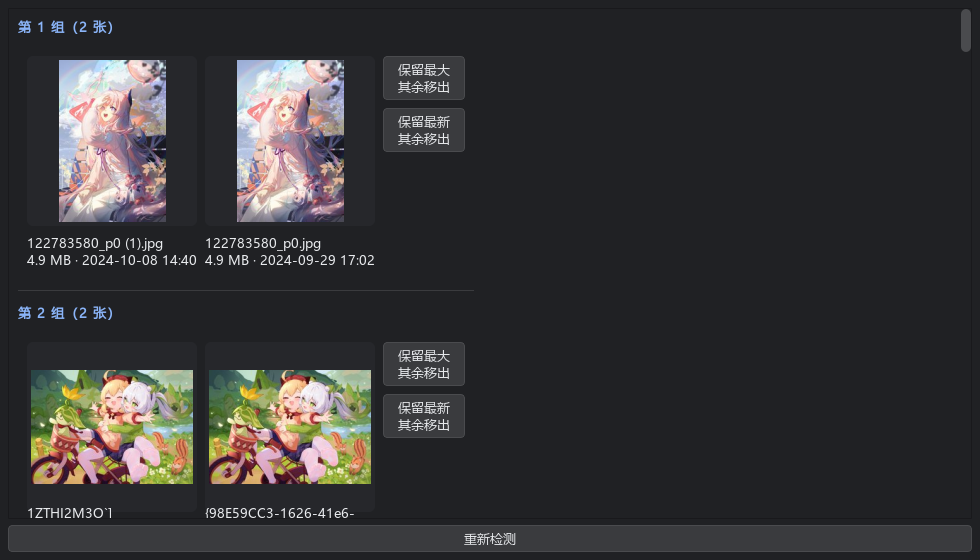
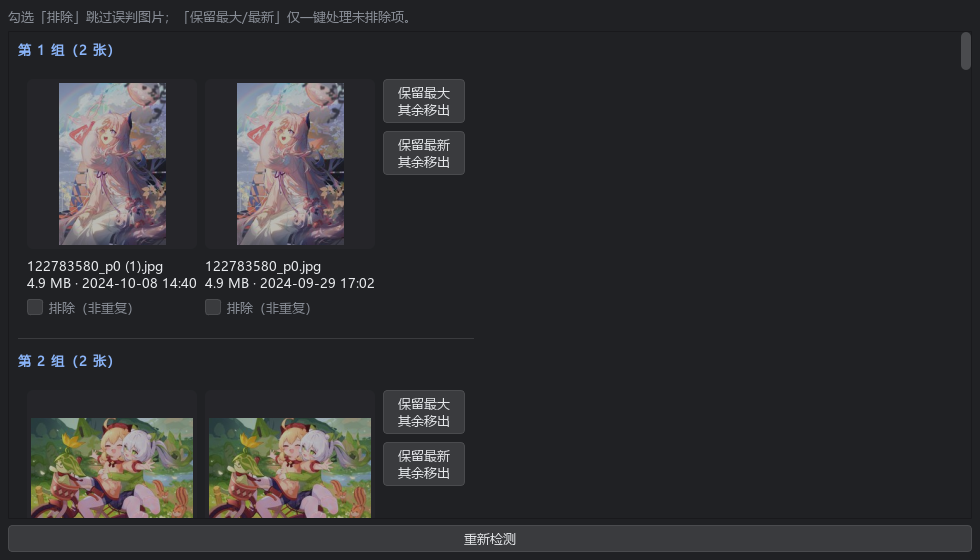
ux: 文件夹下拉恢复常显;长宽比改选项模式(互斥勾选+自定义);查重面板排除勾选+仅处理未排除项;重拍查重截图 (测试版暂不推送)

diff --git a/src/ui/main_window.py b/src/ui/main_window.py
@@ -7,11 +7,11 @@ from __future__ import annotations
 from pathlib import Path
 
 from PySide6.QtCore import Qt, QTimer
-from PySide6.QtGui import QKeySequence, QShortcut, QIcon
+from PySide6.QtGui import QKeySequence, QShortcut, QIcon, QActionGroup
 from PySide6.QtWidgets import (QComboBox, QFileDialog, QLabel,
                                QLineEdit, QMenu, QMessageBox, QPushButton,
                                QSlider, QStatusBar, QToolBar, QVBoxLayout,
-                               QWidget, QWidgetAction)
+                               QWidget)
 
 from .. import meta
 from ..controllers import ASPECT_PRESETS, SORT_MODES, LibraryController
@@ -108,7 +108,6 @@ class MainWindow(QWidget):
         self.combo_folder = QComboBox()
         self.combo_folder.setFixedWidth(140)
         self.combo_folder.setToolTip("按子文件夹筛选（含其子树）")
-        self.combo_folder.setVisible(False)   # 有子文件夹时才显示
         tb.addWidget(self.combo_folder)
 
         self.btn_mode = QPushButton("分页模式")
@@ -128,15 +127,18 @@ class MainWindow(QWidget):
         self.act_dup = self.menu_more.addAction("查找重复")
         self.act_fav = self.menu_more.addAction("仅看最爱")
         self.act_fav.setCheckable(True)
-        wa = QWidgetAction(self.menu_more)
-        self.combo_aspect = QComboBox()
-        self.combo_aspect.setEditable(True)
-        self.combo_aspect.addItems(ASPECT_PRESETS)
-        self.combo_aspect.setFixedWidth(120)
-        self.combo_aspect.setToolTip("按长宽比筛选（整体符合即可，±10%），\n"
-                                     "可自定义如 1.5:3")
-        wa.setDefaultWidget(self.combo_aspect)
-        self.menu_more.addAction(wa)
+        self.menu_aspect = self.menu_more.addMenu("长宽比筛选")
+        self._aspect_group = QActionGroup(self)
+        self._aspect_group.setExclusive(True)
+        for p in ASPECT_PRESETS:
+            a = self.menu_aspect.addAction(p)
+            a.setCheckable(True)
+            self._aspect_group.addAction(a)
+            a.triggered.connect(lambda _=False, t=p: self._apply_aspect(t))
+        self.menu_aspect.addSeparator()
+        self._aspect_custom_act = None
+        self.menu_aspect.addAction("自定义…").triggered.connect(
+            self._custom_aspect)
         self.menu_more.addSeparator()
         self.act_trash = self.menu_more.addAction("垃圾桶")
         self.act_trash.setCheckable(True)
@@ -174,15 +176,6 @@ class MainWindow(QWidget):
         self._search_timer.timeout.connect(
             lambda: self.controller.set_filter(self.edit_search.text()))
         self.edit_search.textChanged.connect(lambda _t: self._search_timer.start())
-        self._aspect_timer = QTimer(self)
-        self._aspect_timer.setSingleShot(True)
-        self._aspect_timer.setInterval(200)
-        self._aspect_timer.timeout.connect(
-            lambda: self.controller.set_aspect(self.combo_aspect.currentText()))
-        self.combo_aspect.currentTextChanged.connect(
-            lambda _t: self._aspect_timer.start())
-        self.combo_aspect.currentTextChanged.connect(
-            lambda _t: self._sync_more_badge())
         self.combo_folder.currentIndexChanged.connect(self._on_folder_changed)
         self.controller.scan_done.connect(self._refresh_folders)
 
@@ -278,16 +271,43 @@ class MainWindow(QWidget):
         i = self.combo_folder.findText(cur)
         self.combo_folder.setCurrentIndex(i if i >= 0 else 0)
         self.combo_folder.blockSignals(False)
-        self.combo_folder.setVisible(self.combo_folder.count() > 1)
         if i > 0:
             self.controller.set_folder_filter(cur)
 
     def _sync_more_badge(self) -> None:
         """「更多」按钮上以 ● 提示菜单内有生效中的状态。"""
+        act = self._aspect_group.checkedAction()
+        aspect_on = act is not None and act.text() not in ("", ASPECT_PRESETS[0])
         active = (self.act_fav.isChecked() or self.act_trash.isChecked()
-                  or self.combo_aspect.currentText().strip()
-                  not in ("", ASPECT_PRESETS[0]))
+                  or aspect_on)
         self.btn_more.setText("更多 ●" if active else "更多 ▾")
+
+    def _apply_aspect(self, text: str) -> None:
+        self.controller.set_aspect(text)
+        self._sync_more_badge()
+
+    def _custom_aspect(self) -> None:
+        from PySide6.QtWidgets import QInputDialog
+        cur = ""
+        if self._aspect_custom_act is not None:
+            cur = self._aspect_custom_act.text().replace("自定义 ", "")
+        text, ok = QInputDialog.getText(
+            self, "自定义长宽比",
+            "输入比例如 1.5:3，或单个浮点（宽÷高）：", text=cur)
+        if not ok or not text.strip():
+            return
+        t = text.strip()
+        if self._aspect_custom_act is None:
+            a = self.menu_aspect.addAction("")
+            a.setCheckable(True)
+            self._aspect_group.addAction(a)
+            a.triggered.connect(
+                lambda _=False: self._apply_aspect(
+                    self._aspect_custom_act.text().replace("自定义 ", "")))
+            self._aspect_custom_act = a
+        self._aspect_custom_act.setText(f"自定义 {t}")
+        self._aspect_custom_act.setChecked(True)
+        self._apply_aspect(t)
 
     def _on_online_toggled(self, on: bool) -> None:
         if on and not self.controller.oss_configured():

diff --git a/src/ui/duplicates_dialog.py b/src/ui/duplicates_dialog.py
@@ -6,8 +6,9 @@ from __future__ import annotations
 
 from PySide6.QtCore import Qt
 from PySide6.QtGui import QPixmap
-from PySide6.QtWidgets import (QDialog, QFrame, QHBoxLayout, QLabel,
-                               QPushButton, QScrollArea, QVBoxLayout, QWidget)
+from PySide6.QtWidgets import (QCheckBox, QDialog, QFrame, QHBoxLayout, QLabel,
+                               QMessageBox, QPushButton, QScrollArea,
+                               QGraphicsOpacityEffect, QVBoxLayout, QWidget)
 
 from ..core import thumbnail
 from ..utils.format import human_size, human_time
@@ -24,6 +25,9 @@ class DuplicatesDialog(QDialog):
 
         outer = QVBoxLayout(self)
         outer.setContentsMargins(8, 8, 8, 8)
+        hint = QLabel("勾选「排除」跳过误判图片；「保留最大/最新」仅一键处理未排除项。")
+        hint.setStyleSheet("color:#8a8f98;")
+        outer.addWidget(hint)
         scroll = QScrollArea()
         scroll.setWidgetResizable(False)
         scroll.setHorizontalScrollBarPolicy(
@@ -35,6 +39,7 @@ class DuplicatesDialog(QDialog):
         if not groups:
             lay.addWidget(QLabel("未发现疑似重复图片。"))
 
+        self._checks: list[list[QCheckBox]] = []
         for gi, group in enumerate(groups):
             title = QLabel(f"第 {gi + 1} 组（{len(group)} 张）")
             title.setStyleSheet("color:#8ab4f8;font-weight:bold;")
@@ -42,6 +47,7 @@ class DuplicatesDialog(QDialog):
 
             row = QHBoxLayout()
             row.setSpacing(8)
+            checks: list[QCheckBox] = []
             for item in group:
                 cell = QVBoxLayout()
                 lbl = QLabel()
@@ -56,20 +62,31 @@ class DuplicatesDialog(QDialog):
                         Qt.TransformationMode.SmoothTransformation))
                 else:
                     lbl.setText("无预览")
+                eff = QGraphicsOpacityEffect(lbl)
+                lbl.setGraphicsEffect(eff)
                 cell.addWidget(lbl)
                 info = QLabel(f"{item.path.name}\n"
                               f"{human_size(item.size_bytes)} · {human_time(item.mtime)}")
                 info.setFixedWidth(CELL)
                 info.setWordWrap(True)
                 cell.addWidget(info)
+                chk = QCheckBox("排除（非重复）")
+                chk.setStyleSheet("color:#8a8f98;")
+                chk.toggled.connect(
+                    lambda on, e=eff: e.setOpacity(0.3 if on else 1.0))
+                cell.addWidget(chk)
+                checks.append(chk)
                 row.addLayout(cell)
+            self._checks.append(checks)
 
             btns = QVBoxLayout()
             online = self.controller.online_mode
             b1 = QPushButton("保留最大\n其余移出")
-            b1.clicked.connect(lambda _=False, g=group: self._keep(g, "size"))
+            b1.clicked.connect(
+                lambda _=False, g=group, i=gi: self._keep(i, g, "size"))
             b2 = QPushButton("保留最新\n其余移出")
-            b2.clicked.connect(lambda _=False, g=group: self._keep(g, "mtime"))
+            b2.clicked.connect(
+                lambda _=False, g=group, i=gi: self._keep(i, g, "mtime"))
             if online:
                 for b in (b1, b2):
                     b.setToolTip("在线模式：确认后将永久删除云端重复对象（不可逆）")
@@ -117,12 +134,15 @@ class DuplicatesDialog(QDialog):
             return QPixmap(str(out))
         return QPixmap()
 
-    def _keep(self, group, by: str) -> None:
+    def _keep(self, gi: int, group, by: str) -> None:
+        checks = self._checks[gi] if gi < len(self._checks) else []
+        active = [it for it, c in zip(group, checks) if not c.isChecked()]
+        if len(active) < 2:
+            QMessageBox.information(self, "提示",
+                                    "排除后该组不足 2 张，无需处理。")
+            return
         if self.controller.online_mode:
-            from PySide6.QtWidgets import QMessageBox
-            n = len(group) - 1
-            if n <= 0:
-                return
+            n = len(active) - 1
             ans = QMessageBox.question(
                 self, "云端删除确认",
                 f"将永久删除 {n} 张云端重复图片（不可恢复），\n"
@@ -131,4 +151,4 @@ class DuplicatesDialog(QDialog):
                 QMessageBox.StandardButton.No)
             if ans != QMessageBox.StandardButton.Yes:
                 return
-        self.controller.keep_one(group, by)
+        self.controller.keep_one(active, by)

diff --git a/docs/USER_GUIDE.md b/docs/USER_GUIDE.md
@@ -73,7 +73,7 @@
 ## 3. 搜索、长宽比、文件夹与排序
 
 - **文件名搜索**：工具栏搜索框输入即实时过滤（子串、不区分大小写），可与排序、「仅看最爱」（更多菜单）叠加；点 ✕ 或清空恢复。
-- **长宽比筛选**：「更多」菜单内下拉，预设 `1:1 / 4:3 / 3:2 / 16:9 / 2:1 / 3:4 / 2:3 / 9:16 / 1:2`；也可直接输入任意比例（如 `1.5:3`）或单个浮点（宽÷高）。判定为“整体符合”：容差 ±10%，例如 210×200 会归入 1:1。损坏图（读不到分辨率）在筛选时不显示；选「全部」恢复。
+- **长宽比筛选**：「更多」→「长宽比筛选」子菜单，选项模式——预设为互斥勾选项（`1:1 / 4:3 / 3:2 / 16:9 / 2:1 / 3:4 / 2:3 / 9:16 / 1:2`），选「全部」清除；「自定义…」可输入任意比例（如 `1.5:3`）或单个浮点（宽÷高），确认后成为新的勾选项。判定为“整体符合”：容差 ±10%，例如 210×200 会归入 1:1。损坏图（读不到分辨率）在筛选时不显示。
 - **文件夹筛选**：「文件夹」下拉列出所有子文件夹（含祖先层级），选中后仅显示该目录及其子树；本地 / 在线库 / 垃圾桶通用，与搜索、长宽比、排序、仅看最爱任意叠加。
 
 工具栏下拉：随机（默认）/ 时间正序 / 时间倒序 / 大小正序 / 大小倒序。
@@ -118,7 +118,7 @@
 ## 8. 重复图片检测
 
 - 全部缩略图生成完毕后后台自动比对 pHash，汉明距离 ≤ 阈值（默认 4）判为疑似重复，右上角蓝色「重」角标。
-- 「更多」→「查找重复」打开重复组面板：每组并排预览（文件名/大小/时间），可一键「保留最大，其余移出」或「保留最新，其余移出」（均为可逆移出）。
+- 「更多」→「查找重复」打开重复组面板：每组并排预览（文件名/大小/时间）；每张图带「排除（非重复）」勾选（勾选后预览变淡），可先剔除误判，再一键「保留最大，其余移出」或「保留最新，其余移出」——仅处理未排除项（均为可逆移出）。
 - 若仍有个别「不像的」被判重复，或真重复没检出：「设置」→「查重严格度」调小/调大阈值后重新「查找重复」。
 - 在线库同样支持查重：缺指纹的云端图片会先下载 IMG 缩略图补算 pHash（状态栏显示进度）；「保留最大/最新」确认后永久删除云端重复对象（不可逆，请谨慎）。
 

diff --git a/README.md b/README.md
@@ -65,8 +65,8 @@
 - **大图浏览器**：滚轮缩放 1%~800%（锚定鼠标）、拖拽平移、双击适应/100%、90° 旋转、←/→ 切换（预加载 ±1）、Esc/✕ 返回、F 收藏；512 档缓存先行、原图后台无缝替换；超大图降采样防 OOM。
 - **最爱系统**：`favorites.json` 跟随图片目录（相对路径，目录移动不丢）；星标角标；"仅看最爱"过滤。
 - **五种排序**：随机（固定种子）/ 时间± / 大小±；"重新随机"换种子。
-- **筛选**：文件名搜索（子串、不区分大小写）+ 长宽比筛选（「更多」菜单内，预设 1:1/16:9/1:2 等，可自定义如 `1.5:3`，±10% 容差）+ 「文件夹」下拉子树筛选（有子文件夹时自动出现）；本地/在线/垃圾桶通用，与排序/仅看最爱任意叠加。工具栏只留高频项，低频操作收进「更多 ▾」菜单。
-- **重复图片检测**：pHash（numpy 自实现，64bit）+ 簇代表聚类防链式误并；阈值默认 4、设置可调 0–12；组面板一键"保留最大/最新，其余移出"。
+- **筛选**：文件名搜索（子串，不区分大小写）+ 长宽比筛选（「更多」菜单内选项模式：预设互斥勾选 + 自定义比例，±10% 容差）+ 「文件夹」下拉子树筛选；本地/在线/垃圾桶通用，与排序/仅看最爱任意叠加。工具栏只留高频项，低频操作收进「更多 ▾」菜单。
+- **重复图片检测**：pHash（numpy 自实现，64bit）+ 簇代表聚类防链式误并；阈值默认 4、设置可调 0–12；组面板支持「排除（非重复）」勾选剔除误判后，一键"保留最大/最新，其余移出"。
 - **垃圾桶**：移出 = 移动到 `Remove/`（可逆、重名加后缀），垃圾桶页可还原回原子目录；`R` 键快捷还原。
 - **图片操作**：另存为（Ctrl+S）、复制图片（Ctrl+C）、复制文件、打开所在位置（Ctrl+O）、移出（Del）。
 - **体验细节**：拖拽文件夹加载、空态引导、暗色主题、高 DPI、F11 全屏、2:1 比例提示、窗口/视图状态记忆、单实例保护、目录变更自动/手动刷新（F5）。

diff --git a/docs/CHANGELOG.md b/docs/CHANGELOG.md
@@ -19,6 +19,7 @@
 - 2026-09-03：在线库查重修复——HashWorker 支持补算缺失 pHash（本地缓存/在线下载 IMG 缩略图，带进度提示）；查重面板在线模式禁用移出按钮、预览不再读伪路径；remove_item/keep_one 加在线模式保护。真实 Bucket 验证 6/6 补指纹通过。
 - 2026-09-03：在线去重可执行——查重面板「保留最大/最新，其余移出」在在线模式恢复可用，弹不可逆确认框后直接删除云端重复对象（OnlineDeleteWorker），同步清理增量上传索引与视图；真实 Bucket 验证删除/保留/自清理通过。
 - 2026-09-03：工具栏精简——17 个控件减至 8 个：仅留 打开目录/排序/重新随机/缩略图滑块/搜索/分页模式/在线库/更多；低频项（刷新/查重/仅看最爱/长宽比/垃圾桶/上传/缓存/设置/关于）收进「更多 ▾」菜单；「文件夹」下拉仅有子文件夹时显示；菜单内有生效状态时「更多 ●」徽标提示；重拍 6 张受影响截图。
+- 2026-09-03：UX 二轮——「文件夹」下拉恢复常显（避免被误认为功能消失）；长宽比筛选改选项模式（「更多」→「长宽比筛选」子菜单，预设互斥勾选 + 「自定义…」输入成勾选项）；查重面板每张图加「排除（非重复）」勾选（预览变淡），「保留最大/最新」仅一键处理未排除项，排除后不足 2 张给提示。
 
 ## [1.2.1] - 2026-09-01
 
